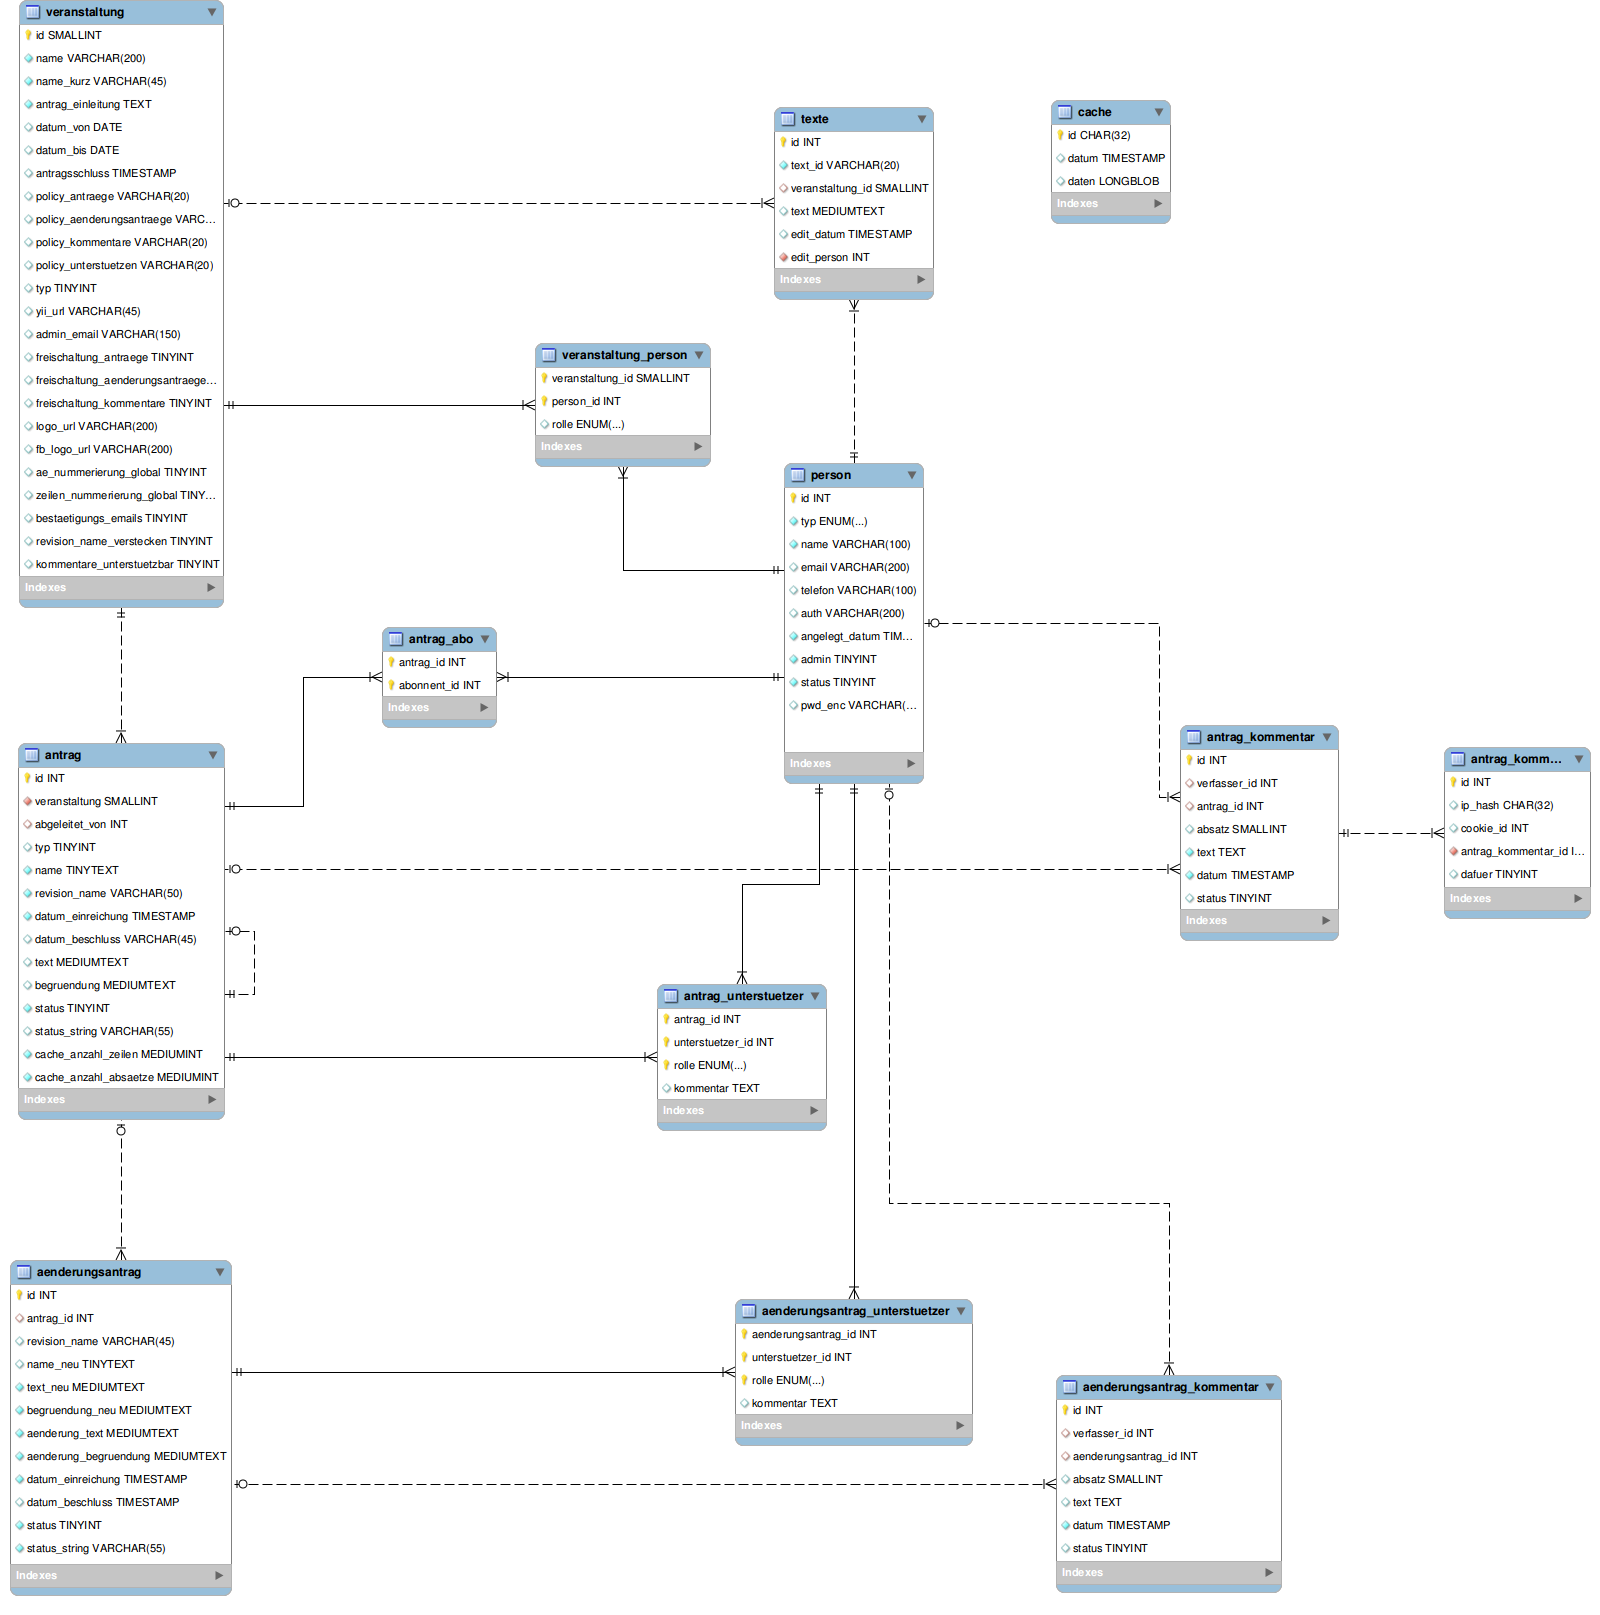
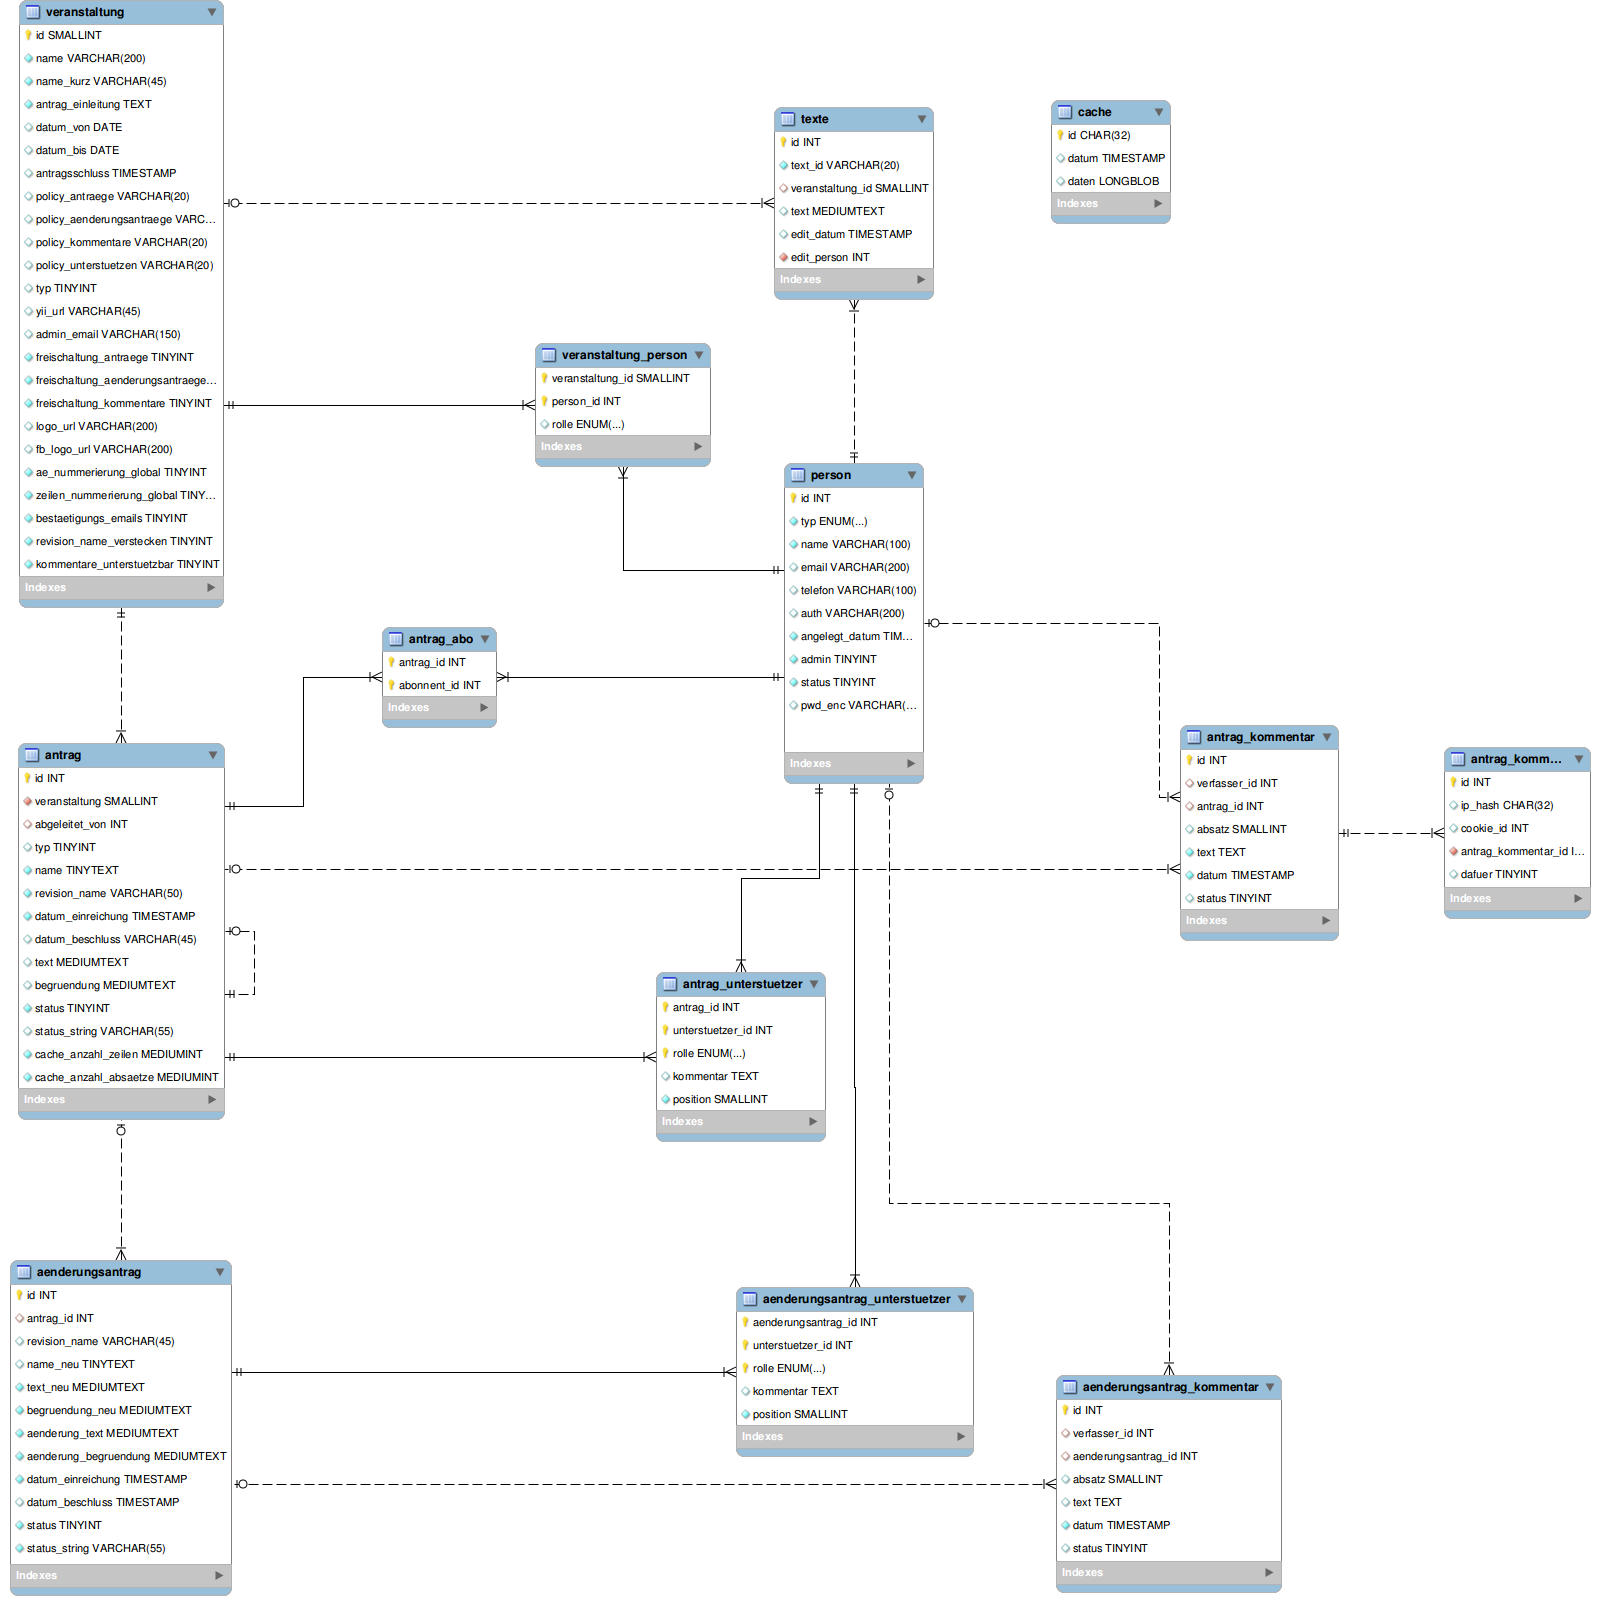
AntragstellerInnen sortierbar machen, bei ÄA-Erstellung optional mehrere AntragsstellerInnen angebbar machen

Changed region(s): [[0.4375, 0.774, 0.625, 0.9288], [0.4062, 0.5882, 0.5312, 0.7121]]

diff --git a/html/js/antraege.js b/html/js/antraege.js
@@ -11,6 +11,14 @@
 		ev.preventDefault();
 	});
 	$(".unterstuetzerwidget_adder").hide();
+	$(function() {
+		$(".unterstuetzerwidget").sortable({
+			handle: ".sort_handle",
+			tolerance: "pointer",
+			containment: "parent",
+			axis: "y"
+		});
+	});
 
 	$(document).change(".person_selector",function () {
 		var $t = $(this);

diff --git a/html/css/antraege.css b/html/css/antraege.css
@@ -1113,6 +1113,7 @@ ins {
 #aenderungsantrag-form .unterstuetzerwidget select, #antrag-form .unterstuetzerwidget select {
 	width: 200px;
 }
+.unterstuetzerwidget .sort_handle { cursor: move; }
 
 .js_protection_hint {
 	width: 90%;

diff --git a/protected/models/IPolicyAntraege.php b/protected/models/IPolicyAntraege.php
@@ -126,7 +126,28 @@ abstract class IPolicyAntraege
 		$init->antrag_id        = $antrag->id;
 		$init->rolle            = AntragUnterstuetzer::$ROLLE_INITIATOR;
 		$init->unterstuetzer_id = $antragstellerin->id;
+		$init->position         = 0;
 		$init->save();
+
+		if (isset($_REQUEST["UnterstuetzerInnen"]) && is_array($_REQUEST["UnterstuetzerInnen"])) foreach ($_REQUEST["UnterstuetzerInnen"] as $i => $name) {
+			$name = trim($name);
+			if ($name != "") {
+				$person                 = new Person;
+				$person->name           = $name;
+				$person->typ            = Person::$TYP_PERSON;
+				$person->status         = Person::$STATUS_UNCONFIRMED;
+				$person->angelegt_datum = "NOW()";
+				$person->admin          = 0;
+				if ($person->save()) {
+					$unt                   = new AntragUnterstuetzer();
+					$unt->antrag_id        = $antrag->id;
+					$unt->unterstuetzer_id = $person->id;
+					$unt->rolle            = AntragUnterstuetzer::$ROLLE_UNTERSTUETZER;
+					$unt->position         = $i;
+					$unt->save();
+				}
+			}
+		}
 	}
 
 
@@ -154,7 +175,28 @@ abstract class IPolicyAntraege
 		$init->aenderungsantrag_id = $aenderungsantrag->id;
 		$init->rolle               = AenderungsantragUnterstuetzer::$ROLLE_INITIATOR;
 		$init->unterstuetzer_id    = $antragstellerin->id;
+		$init->position            = 0;
 		$init->save();
+
+		if (isset($_REQUEST["UnterstuetzerInnen"]) && is_array($_REQUEST["UnterstuetzerInnen"])) foreach ($_REQUEST["UnterstuetzerInnen"] as $i => $name) {
+			$name = trim($name);
+			if ($name != "") {
+				$person                 = new Person;
+				$person->name           = $name;
+				$person->typ            = Person::$TYP_PERSON;
+				$person->status         = Person::$STATUS_UNCONFIRMED;
+				$person->angelegt_datum = "NOW()";
+				$person->admin          = 0;
+				if ($person->save()) {
+					$unt                      = new AenderungsantragUnterstuetzer();
+					$unt->aenderungsantrag_id = $aenderungsantrag->id;
+					$unt->unterstuetzer_id    = $person->id;
+					$unt->rolle               = AenderungsantragUnterstuetzer::$ROLLE_UNTERSTUETZER;
+					$unt->position            = $i;
+					$unt->save();
+				}
+			}
+		}
 	}
 
 	/**

diff --git a/protected/components/UnterstuetzerWidget.php b/protected/components/UnterstuetzerWidget.php
@@ -56,7 +56,7 @@ class UnterstuetzerWidget
         $unterstuetzer = $antrag->$unterstuetzer_rel;
         foreach ($unterstuetzer as $unt) {
             $str .= '<div>';
-            $str .= '<span style="display: inline-block; width: 250px; overflow: hidden;">' . CHtml::encode($unt->unterstuetzer->name) . '</span>';
+            $str .= '<span style="display: inline-block; width: 250px; overflow: hidden;" class="sort_handle">' . CHtml::encode($unt->unterstuetzer->name) . '</span>';
             $str .= '<input type="hidden" name="' . get_class($antrag) . '[unterstuetzer][person_id][]" value="' . $unt->unterstuetzer->id . '">';
             $str .= '<select name="' . get_class($antrag) . '[unterstuetzer][rolle][]">';
             $str .= '<option value="del"> - ' . Yii::t('app', 'löschen') . ' - </option>';
@@ -88,10 +88,12 @@ class UnterstuetzerWidget
         if (isset($_REQUEST[get_class($model)]["unterstuetzer"])) {
             $unterstuetzer = $_REQUEST[get_class($model)]["unterstuetzer"];
             for ($i = 0; $i < count($unterstuetzer["person_id"]); $i++) if ($unterstuetzer["rolle"][$i] != "del") {
+				/** @var AntragUnterstuetzer $unt */
                 $unt = new $unterstuetzer_class;
                 $unt->$unterstuetzer_pk = $id;
                 $unt->unterstuetzer_id = IntVal($unterstuetzer["person_id"][$i]);
                 $unt->rolle = $unterstuetzer["rolle"][$i];
+				$unt->position = $i;
                 $unt->save();
             }
         }
@@ -122,6 +124,7 @@ class UnterstuetzerWidget
                         $unt->$unterstuetzer_pk = $id;
                         $unt->unterstuetzer_id = $person->id;
                         $unt->rolle = $unterstuetzer_neu["rolle"][$i];
+						$unt->position = $i;
                         $unt->save();
                     }
                 }

diff --git a/protected/views/aenderungsantrag/antragstellerin_std.php b/protected/views/aenderungsantrag/antragstellerin_std.php
@@ -26,6 +26,27 @@ if ($mode == "neu") {
 		<?php echo $form->textFieldRow($antragstellerin, 'telefon'); ?>
 
 
+		<div class="control-group" id="UnterstuetzerInnen" style="display: none;">
+			<label class="control-label">UnterstützerInnen</label>
+			<div class="controls"></div>
+		</div>
+
+		<div style="padding-left: 162px; margin-top: -15px; margin-bottom: 20px;">
+			<a href="#" onClick="return add_unterstuetzerInnen();"><span class="icon-down-open"></span> Weitere UnterstützerInnen angeben</a>
+		</div>
+
+	<script>
+		function add_unterstuetzerInnen() {
+			var $u = $("#UnterstuetzerInnen"), str = "";
+			$u.show();
+			for (var i = 0; i < 5; i++) str += '<input type="text" name="UnterstuetzerInnen[]" value="" placeholder="Name" title="Name der UnterstützerInnen"><br>';
+			$u.find(".controls").append(str);
+			return false;
+		}
+	</script>
+
+
+
 		<div class="ae_select_confirm">
 			<?php $this->widget('bootstrap.widgets.TbButton', array('buttonType'=> 'submit', 'type'=> 'primary', 'icon'=> 'ok white', 'label'=> $sprache->get("Änderungsantrag stellen"))); ?>
 		</div>

diff --git a/protected/models/_base/BaseAenderungsantragUnterstuetzer.php b/protected/models/_base/BaseAenderungsantragUnterstuetzer.php
@@ -13,6 +13,7 @@
  * @property integer $unterstuetzer_id
  * @property string $rolle
  * @property string $kommentar
+ * @property integer $position
  *
  * @property Person $unterstuetzer
  * @property Aenderungsantrag $aenderungsantrag
@@ -38,11 +39,11 @@ abstract class BaseAenderungsantragUnterstuetzer extends IUnterstuetzer {
 	public function rules() {
 		return array(
 			array('aenderungsantrag_id, unterstuetzer_id, rolle', 'required'),
-			array('aenderungsantrag_id, unterstuetzer_id', 'numerical', 'integerOnly'=>true),
+			array('aenderungsantrag_id, unterstuetzer_id, position', 'numerical', 'integerOnly'=>true),
 			array('rolle', 'length', 'max'=>13),
 			array('kommentar', 'safe'),
 			array('kommentar', 'default', 'setOnEmpty' => true, 'value' => null),
-			array('aenderungsantrag_id, unterstuetzer_id, rolle, kommentar', 'safe', 'on'=>'search'),
+			array('aenderungsantrag_id, unterstuetzer_id, rolle, kommentar, position', 'safe', 'on'=>'search'),
 		);
 	}
 

diff --git a/protected/models/_base/BaseAntragUnterstuetzer.php b/protected/models/_base/BaseAntragUnterstuetzer.php
@@ -13,6 +13,7 @@
  * @property integer $unterstuetzer_id
  * @property string $rolle
  * @property string $kommentar
+ * @property integer $position
  *
  * @property Antrag $antrag
  * @property Person $unterstuetzer
@@ -38,11 +39,11 @@ abstract class BaseAntragUnterstuetzer extends IUnterstuetzer {
 	public function rules() {
 		return array(
 			array('antrag_id, unterstuetzer_id, rolle', 'required'),
-			array('antrag_id, unterstuetzer_id', 'numerical', 'integerOnly'=>true),
+			array('antrag_id, unterstuetzer_id, position', 'numerical', 'integerOnly'=>true),
 			array('rolle', 'length', 'max'=>12),
 			array('kommentar', 'safe'),
 			array('kommentar', 'default', 'setOnEmpty' => true, 'value' => null),
-			array('antrag_id, unterstuetzer_id, rolle, kommentar', 'safe', 'on'=>'search'),
+			array('antrag_id, unterstuetzer_id, rolle, kommentar, position', 'safe', 'on'=>'search'),
 		);
 	}
 

diff --git a/protected/controllers/admin/AenderungsantraegeController.php b/protected/controllers/admin/AenderungsantraegeController.php
@@ -67,7 +67,7 @@ class AenderungsantraegeController extends GxController {
 			if ($model->save()) {
 
 
-				//UnterstuetzerWidget::saveUnterstuetzerWidget($model, $messages, "AenderungsantragUnterstuetzer", "aenderungsantrag_id", $id);
+				UnterstuetzerWidget::saveUnterstuetzerWidget($model, $messages, "AenderungsantragUnterstuetzer", "aenderungsantrag_id", $id);
 
                 $model = Aenderungsantrag::model()->with("aenderungsantragUnterstuetzer", "aenderungsantragUnterstuetzer.unterstuetzer")->findByPk($id, '', array("order" => "`unterstuetzer`.`name"));
             }

diff --git a/protected/models/_base/BaseAenderungsantrag.php b/protected/models/_base/BaseAenderungsantrag.php
@@ -60,7 +60,10 @@ abstract class BaseAenderungsantrag extends IAntrag {
 		return array(
 			'antrag' => array(self::BELONGS_TO, 'Antrag', 'antrag_id'),
 			'aenderungsantragKommentare' => array(self::HAS_MANY, 'AenderungsantragKommentar', 'aenderungsantrag_id'),
-			'aenderungsantragUnterstuetzer' => array(self::HAS_MANY, 'AenderungsantragUnterstuetzer', 'aenderungsantrag_id'),
+			'aenderungsantragUnterstuetzer' => array(
+				self::HAS_MANY, 'AenderungsantragUnterstuetzer', 'aenderungsantrag_id',
+				'order' => "aenderungsantragUnterstuetzer.position ASC"
+			),
 		);
 	}
 

diff --git a/protected/models/_base/BaseAntrag.php b/protected/models/_base/BaseAntrag.php
@@ -71,7 +71,10 @@ abstract class BaseAntrag extends IAntrag {
 			'antraege' => array(self::HAS_MANY, 'Antrag', 'abgeleitet_von'),
 			'abonnenten' => array(self::MANY_MANY, 'Person', 'antrag_abo(antrag_id, abonnent_id)'),
 			'antragKommentare' => array(self::HAS_MANY, 'AntragKommentar', 'antrag_id'),
-			'antragUnterstuetzer' => array(self::HAS_MANY, 'AntragUnterstuetzer', 'antrag_id'),
+			'antragUnterstuetzer' => array(
+				self::HAS_MANY, 'AntragUnterstuetzer', 'antrag_id',
+				'order' => "antragUnterstuetzer.position ASC"
+			),
 		);
 	}
 
